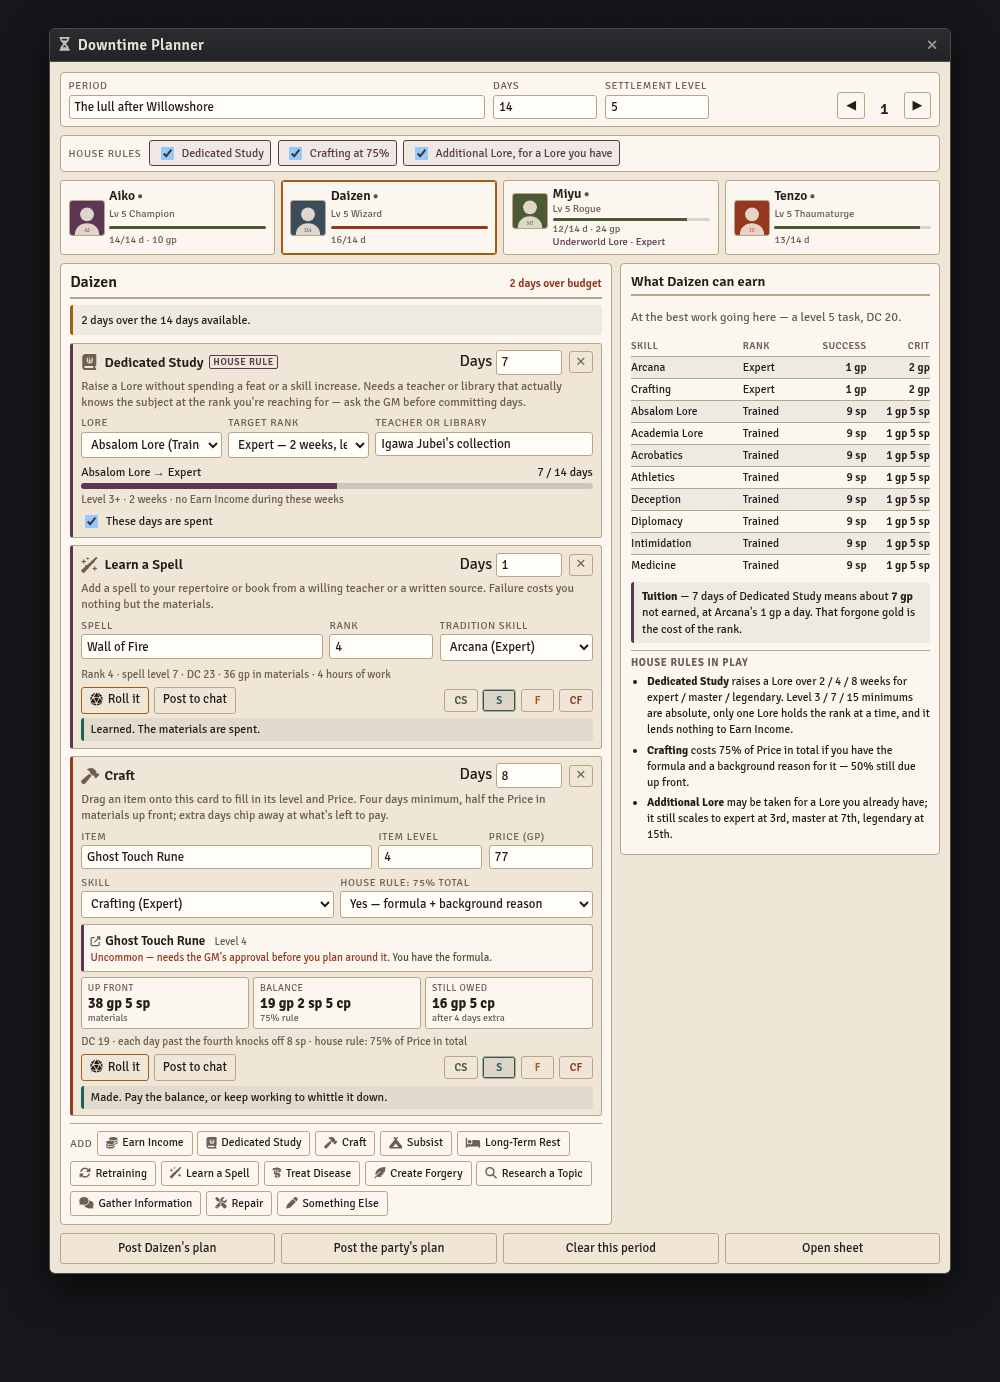
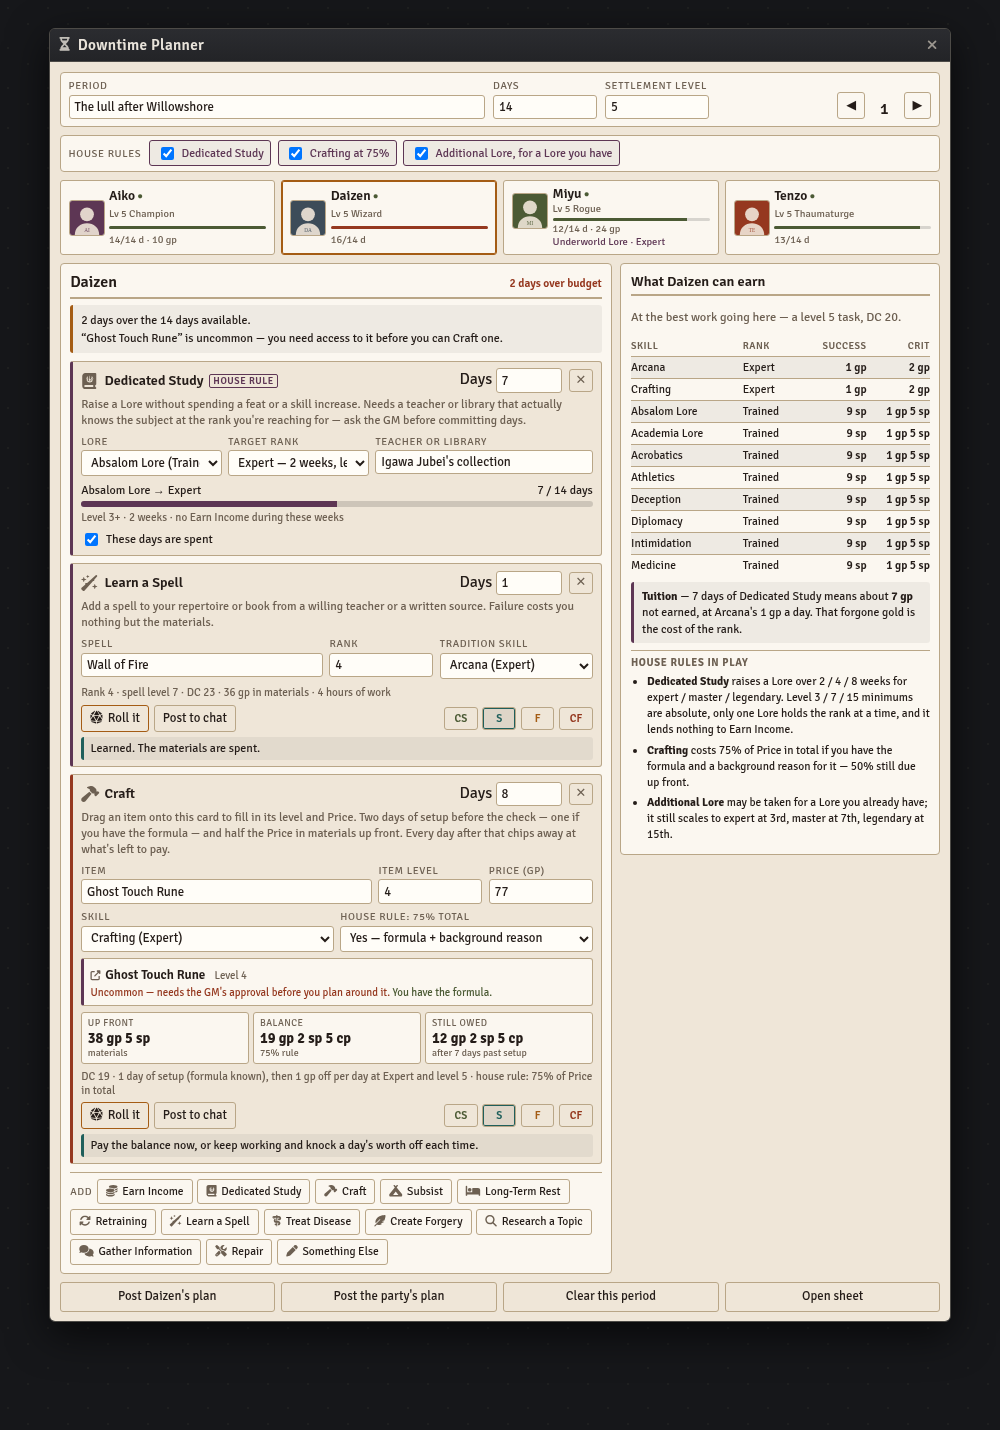
Craft on the remastered rules, and readable dropdowns
Craft was running on the pre-remaster activity. It is not a flat four days:
it's two days of setup before the check, or one if you have the item's
formula. The per-day reduction after that was also priced off the item's
level, when it goes off the crafter's — their own level and Crafting rank, or
a level higher on a critical success. Both are fixed, and the card now says
which level and rank it used rather than leaving the number unexplained.

The requirements that are easiest to plan straight past are surfaced as
warnings: an item above your own level, the master and legendary ranks that
level 9 and 17 items need, being trained in Crafting at all, and anything
uncommon or rare needing access before you can make one. That last is what the
dropped item's rarity has been feeding all along; it is now a rule rather than
a reminder, and the formula it also reads is what halves the setup days.

Dropdowns opened black-on-black for players in worlds using Foundry's dark
theme. A select inherits the page's color-scheme, so the native popup painted
itself dark while the options stayed dark on dark — the closed control looked
fine, which is why this only showed once someone opened one. Both boards now
pin the scheme to their own palette and paint the options explicitly. The fall
tracker's second-activity number inputs were unstyled for a related reason:
its CSS only covered text inputs and selects.

Also: a Craft row on a character untrained in Crafting offered Acrobatics,
[…]

Changed region(s): [[0.062, 0.0, 0.93, 0.9334], [0.248, 0.4045, 0.279, 0.4356]]

diff --git a/macros/pf2e-downtime/downtime-planner.js b/macros/pf2e-downtime/downtime-planner.js
@@ -156,12 +156,14 @@ const ACTS = {
 
   craft: {
     label: "Craft", icon: "fa-solid fa-hammer", tone: "rust", check: true, drop: true,
-    blurb: "Drag an item onto this card to fill in its level and Price. Four days minimum, half the Price in materials up front; extra days chip away at what's left to pay.",
+    blurb: "Drag an item onto this card to fill in its level and Price. Two days of setup before the check — one if you have the formula — and half the Price in materials up front. Every day after that chips away at what's left to pay.",
     fields: [
       { k: "item", label: "Item", type: "text", placeholder: "Drop an item, or type its name" },
       { k: "ilvl", label: "Item level", type: "number", min: 0, max: 25, def: 1 },
       { k: "price", label: "Price (gp)", type: "number", min: 0, max: 100000, step: "0.01", def: 0 },
-      { k: "skill", label: "Skill", type: "skill", trainedOnly: true, def: "crafting" },
+      /* Not trained-only: Craft always wants Crafting, and being untrained in
+         it is a warning to show rather than a reason to offer Acrobatics. */
+      { k: "skill", label: "Skill", type: "skill", trainedOnly: false, def: "crafting" },
       /* HOUSE RULE — 75% total with a formula and a background reason. Hidden
          unless the GM has switched the rule on; the 50% up front is unchanged
          either way, and only the balance owed shrinks. */
@@ -169,7 +171,7 @@ const ACTS = {
         options: [["0", "No — standard 50% + 50%"], ["1", "Yes — formula + background reason"]] }
     ],
     dc: (cfg) => levelDC(cfg.ilvl),
-    minDays: 4
+    minDays: 2
   },
 
   subsist: {
@@ -298,10 +300,10 @@ const OUTCOMES = {
     cf: "Fired on the spot. Nothing earned, and the job is over."
   },
   craft: {
-    cs: "Made, and the balance drops faster for every extra day you put in.",
-    s: "Made. Pay the balance, or keep working to whittle it down.",
-    f: "Not finished. You can salvage the materials.",
-    cf: "Not finished, and a tenth of the materials are ruined."
+    cs: "Each further day knocks off more — priced a level above you rather than at your own.",
+    s: "Pay the balance now, or keep working and knock a day's worth off each time.",
+    f: "You don't finish. The materials salvage for their full value, but you start over.",
+    cf: "You ruin a tenth of the materials. The rest salvages."
   },
   subsist: {
     cs: "Enough for you and one other, or you eat and sleep comfortably.",
@@ -775,18 +777,25 @@ class Planner {
   }
 
   /* Half the Price up front either way; the house rule only shrinks the
-     balance owed on completion, from 50% of Price to 25%. */
+     balance owed on completion, from 50% of Price to 25%.
+
+     Setup is two days of work before the check, or one with the item's
+     formula, and every day after that reduces what's left to pay. The
+     reduction is priced off the *crafter* — their own level and proficiency,
+     or a level higher on a critical success — not off the item. */
   craftFor(pc, row) {
     const price = Math.round((Number(row.cfg.price) || 0) * 100);
     const hr = this.on("craft75") && String(row.cfg.hr75) === "1";
     const upFront = Math.floor(price / 2);
     const balance = hr ? Math.floor(price / 4) : price - upFront;
-    const extra = Math.max(0, (row.days || 0) - 4);
+    const setup = row.cfg.formula ? 1 : 2;
+    const extra = Math.max(0, (row.days || 0) - setup);
     const rank = this.effectiveRank(pc, row.cfg.skill || "crafting");
-    const ilvl = Number(row.cfg.ilvl) || 0;
-    const perDay = row.degree === "cs" ? incomeRow(ilvl + 1)[Math.max(1, rank)] : incomeRow(ilvl)[Math.max(1, rank)];
+    const lvl = (pc.level ?? 1) + (row.degree === "cs" ? 1 : 0);
+    const perDay = incomeRow(lvl)[Math.max(1, rank)];
     const reduced = Math.min(balance, extra * perDay);
-    return { price, upFront, balance, extra, perDay, reduced, owed: Math.max(0, balance - reduced), hr };
+    return { price, upFront, balance, extra, setup, perDay, reduced,
+             owed: Math.max(0, balance - reduced), hr };
   }
 
   restFor(pc, row) {
@@ -855,8 +864,25 @@ class Planner {
       else if (task > this.s.settlement) out.push(`No level ${task} work here — the settlement tops out at level ${this.s.settlement}.`);
       if (this.effectiveRank(pc, r.cfg.skill) < 1) out.push("Earn Income needs you trained in the skill.");
     }
+    /* Craft's requirements, which are easy to plan straight past: the setup
+       days, your own level and proficiency against the item's, and access to
+       anything that isn't common. */
     for (const r of rows) {
-      if (r.act === "craft" && (r.days || 0) < 4) out.push("Craft takes at least four days.");
+      if (r.act !== "craft") continue;
+      const c = this.craftFor(pc, r);
+      const what = r.cfg.item ? `“${r.cfg.item}”` : "That item";
+      if ((r.days || 0) < c.setup) {
+        out.push(`Craft needs ${days2(c.setup)} of setup before the check${r.cfg.formula ? "." : " — one, with the item's formula."}`);
+      }
+      const ilvl = Number(r.cfg.ilvl) || 0;
+      const rank = this.effectiveRank(pc, r.cfg.skill || "crafting");
+      if (ilvl > (pc.level ?? 1)) out.push(`${what} is level ${ilvl} — above ${pc.name}'s level, so it can't be Crafted.`);
+      if (rank < 1) out.push("Craft needs you trained in Crafting.");
+      else if (ilvl >= 17 && rank < 4) out.push(`Level ${ilvl} items need legendary Crafting.`);
+      else if (ilvl >= 9 && rank < 3) out.push(`Level ${ilvl} items need master Crafting.`);
+      if (r.cfg.rarity && r.cfg.rarity !== "common") {
+        out.push(`${what} is ${r.cfg.rarity} — you need access to it before you can Craft one.`);
+      }
     }
     return [...new Set(out)];
   }
@@ -1076,9 +1102,10 @@ class DowntimeApp extends BaseApp {
           <div class="pay"><span>Up front</span><b>${coin(c.upFront)}</b><small>materials</small></div>
           <div class="pay"><span>Balance</span><b>${coin(c.balance)}</b><small>${c.hr ? "75% rule" : "on completion"}</small></div>
           <div class="pay ${c.owed === 0 ? "on" : ""}"><span>Still owed</span><b>${coin(c.owed)}</b>
-            <small>${c.extra ? `after ${days2(c.extra)} extra` : "no extra days"}</small></div>
+            <small>${c.extra ? `after ${days2(c.extra)} past setup` : "no days past setup"}</small></div>
         </div>
-        <div class="payfoot">DC ${levelDC(row.cfg.ilvl)} · each day past the fourth knocks off ${coin(c.perDay)}${c.hr ? " · house rule: 75% of Price in total" : ""}</div>`;
+        <div class="payfoot">DC ${levelDC(row.cfg.ilvl)} · ${days2(c.setup)} of setup${row.cfg.formula ? " (formula known)" : ""},
+          then ${coin(c.perDay)} off per day at ${RANKS[this.planner.effectiveRank(pc, row.cfg.skill || "crafting")]} and level ${pc.level ?? 1}${c.hr ? " · house rule: 75% of Price in total" : ""}</div>`;
     }
 
     if (row.act === "rest") {
@@ -1546,8 +1573,16 @@ class DowntimeApp extends BaseApp {
                     padding:.3rem .5rem; font-size:.8rem; font-family:inherit; }
       .dtp button:hover:not(:disabled) { background:var(--hover); }
       .dtp button:disabled { opacity:.45; cursor:default; }
+      /* color-scheme drives the native dropdown popup. Without it, a world on
+         Foundry's dark theme opens a select over a black list with black text
+         — the control looks right and the menu is unreadable. The options are
+         painted explicitly as well, since Linux Chrome ignores the scheme. */
+      .dtp { color-scheme:${THEME === "dark" ? "dark" : "light"}; }
       .dtp input, .dtp select { background:var(--field); color:var(--ink); border:1px solid var(--line);
-                                border-radius:3px; padding:.2rem .3rem; font-family:inherit; font-size:.8rem; }
+                                border-radius:3px; padding:.2rem .3rem; font-family:inherit; font-size:.8rem;
+                                color-scheme:${THEME === "dark" ? "dark" : "light"}; }
+      .dtp select option { background:var(--field); color:var(--ink); }
+      .dtp select option:disabled { color:var(--muted); }
       .dtp .muted, .dtp .sub { color:var(--muted); font-size:.78rem; }
       .dtp .spacer { flex:1; }
       .dtp .empty { padding:2rem; text-align:center; }

diff --git a/macros/season-of-ghosts/fall-downtime-tracker.js b/macros/season-of-ghosts/fall-downtime-tracker.js
@@ -1547,7 +1547,7 @@ class SoGDowntimeApp extends BaseApp {
             <select data-act="sec-skill" data-pc="${i}" ${dis}>${skillOpts}</select>
             ${rollBtn}${rolledBadge}
           </div>
-          <div class="sechint">DC ${levelDC(sec.ilvl)} · four days minimum${half ? `, ${coin(half)} in materials up front` : " — set the Price to see the materials cost"}</div>
+          <div class="sechint">DC ${levelDC(sec.ilvl)} · two days of setup before the check, one with the formula${half ? `, then ${coin(half)} in materials` : " — set the Price to see the materials cost"}</div>
         </div>`;
     }
 
@@ -1821,9 +1821,15 @@ class SoGDowntimeApp extends BaseApp {
                    border:1px solid var(--line); border-radius:3px; line-height:1.25;
                    display:inline-flex; align-items:center; justify-content:center; gap:.3rem;
                    height:auto; min-height:0; white-space:nowrap; text-overflow:ellipsis; overflow:hidden; }
-      .sog select, .sog input[type="text"] { background:var(--field); color:var(--ink);
+      /* color-scheme drives the native dropdown popup. Without it, a world on
+         Foundry's dark theme opens a select over a black list with black text
+         — the control looks right and the menu is unreadable. */
+      .sog { color-scheme:${THEME === "dark" ? "dark" : "light"}; }
+      .sog select, .sog input[type="text"], .sog input[type="number"] {
+             background:var(--field); color:var(--ink); color-scheme:${THEME === "dark" ? "dark" : "light"};
              border:1px solid var(--line); border-radius:3px; height:auto; padding:2px 4px; }
       .sog option { background:var(--field); color:var(--ink); }
+      .sog option:disabled { color:var(--muted); }
       .sog input[type="checkbox"] { accent-color:var(--ember); }
       /* A panel is titled in large ink over a thick rule in its own tone, so
          it reads ahead of anything nested inside it. */

diff --git a/CHANGELOG.md b/CHANGELOG.md
@@ -2,6 +2,24 @@
 
 ## Unreleased
 
+### Fixed
+- Downtime Planner: Craft was running on the pre-remaster rules. It is not a flat four days —
+  it's **two days of setup before the check, or one with the item's formula**. The per-day
+  reduction after that was also priced off the item's level; it goes off the **crafter's** level
+  and Crafting rank, a level higher on a critical success. Craft now also carries the
+  requirements it's easiest to plan past: an item above your own level, the master and legendary
+  ranks that level 9 and 17 items need, being trained at all, and anything uncommon or rare
+  needing access before you can make one
+- Downtime Planner and Fall Downtime Tracker: dropdowns opened black-on-black in worlds using
+  Foundry's dark theme. The control inherited the page's `color-scheme`, so the native popup
+  painted itself dark while the options stayed dark-on-dark. Both boards now pin the scheme to
+  their own palette and paint the options explicitly
+- Downtime Planner: a Craft row on a character untrained in Crafting offered Acrobatics, because
+  the field filtered to trained skills and fell through to the first one. It always offers
+  Crafting now, and says if you aren't trained in it
+- Fall Downtime Tracker: the second activity's number inputs were unstyled, the CSS only having
+  covered text inputs and selects
+
 ### Added
 - Fall Downtime Tracker: the player board is no longer read-only. Each player gets a card per
   character they own — this week's preparation activity, the skill for it, a roll button, and
@@ -49,8 +67,10 @@
   character sheet — and its name, level, and Price fill themselves in, with a coin-purse Price
   flattened to gp so 15 gp 5 sp arrives as 15.5. Dropping on the panel instead starts a new
   Craft row. The chip that appears carries the two things that change the answer: the item's
-  rarity, and whether that character knows its formula, read off their own formula book. A
-  non-physical item is refused rather than crafted against a Price it doesn't have
+  rarity, and whether that character knows its formula, read off their own formula book. Both
+  feed the rules directly: the formula is what halves the setup days, and rarity is what decides
+  whether you need access. A non-physical item is refused rather than crafted against a Price it
+  doesn't have
 - Downtime Planner: rolls the character's own statistic and records the degree where the
   system offers one, falling back to a rollable `@Check` in chat where it doesn't
 - Downtime Planner: the party is **the party actor**, not a directory scan. Eidolons,

diff --git a/macros/pf2e-downtime/README.md b/macros/pf2e-downtime/README.md
@@ -55,7 +55,10 @@ and what the party will be richer by at the end of it.
 - A **what you can earn** panel per character, ranking their skills by what the work actually
   pays at the best task the settlement offers
 - Warnings that catch the things that get missed: over the day budget, a task level above your
-  own level or above the settlement's, Earn Income without being trained, Craft under four days
+  own level or above the settlement's, and Earn Income without being trained. Craft carries the
+  requirements that are easiest to plan straight past — the setup days, an item above your own
+  level, the master and legendary ranks that level 9 and 17 items need, and anything uncommon or
+  rare needing access before you can make one
 - A chat card for one character's plan or the whole party's
 
 ### The house rules
@@ -91,6 +94,11 @@ best rate. That's the house rule's actual price, made visible.
 **Crafting at 75%** — with the formula and a background reason for it, the total comes to 75% of
 Price instead of 100%. Half is still due up front; the balance owed drops. Toggling it on
 recalculates what's still owed after the extra days worked.
+
+Craft otherwise follows the remastered activity: **two days of setup before the check, or one if
+you have the item's formula**, then every further day reduces the balance by a day's Earn Income
+— priced off *your* level and Crafting rank, or a level higher on a critical success, not off
+the item's level.
 
 **Additional Lore** may be taken for a Lore you already have, keeping the automatic scaling.
 Reference only — it changes nothing the planner computes, and it's listed so the table can see
